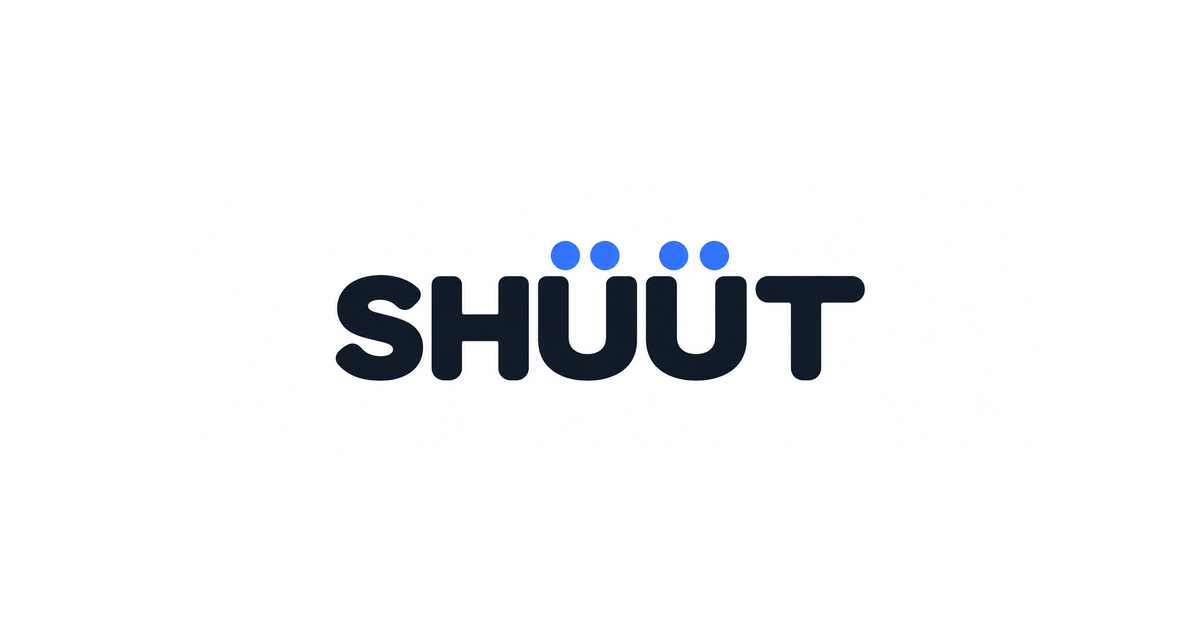
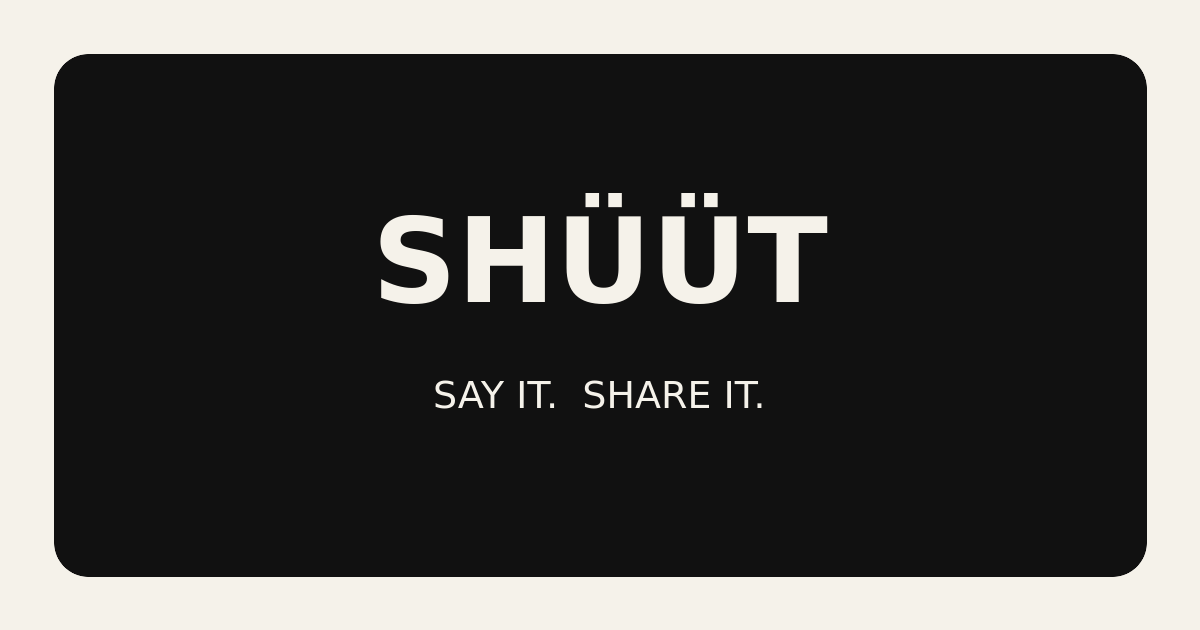
Secure rich previews with signed SHÜÜT share links
Replit-Task-Id: 74e74c97-37ad-41f2-8797-c8a439507c6a
Replit-Merge-Attempt: MergeTask:74e74c97-37ad-41f2-8797-c8a439507c6a:1:45d3e3be

diff --git a/artifacts/api-server/src/routes/socialPreview.ts b/artifacts/api-server/src/routes/socialPreview.ts
@@ -1,0 +1,137 @@
+import { readFile } from "node:fs/promises";
+import path from "node:path";
+import { Router, type IRouter } from "express";
+import { and, eq } from "drizzle-orm";
+import { db, foundersTable, postsTable } from "@workspace/db";
+import { verifyPostShareToken } from "../lib/postShareToken";
+
+const router: IRouter = Router();
+const SITE_URL = "https://shuut.me";
+const SITE_NAME = "SHÜÜT";
+const DEFAULT_TITLE = "SHÜÜT — Say it. Share it.";
+const DEFAULT_DESCRIPTION =
+  "Short voice notes, clean transcripts, and honest ideas from people building what comes next.";
+const OG_IMAGE_URL = `${SITE_URL}/shuut-social-preview.png`;
+const MAX_DESCRIPTION_LENGTH = 180;
+
+function escapeHtml(value: string): string {
+  return value
+    .replaceAll("&", "&amp;")
+    .replaceAll('"', "&quot;")
+    .replaceAll("<", "&lt;")
+    .replaceAll(">", "&gt;");
+}
+
+function transcriptExcerpt(transcript: string): string {
+  const singleLine = transcript.replace(/\s+/g, " ").trim();
+  if (singleLine.length <= MAX_DESCRIPTION_LENGTH) return singleLine;
+  const shortened = singleLine.slice(0, MAX_DESCRIPTION_LENGTH - 1);
+  const lastSpace = shortened.lastIndexOf(" ");
+  return `${shortened.slice(0, Math.max(lastSpace, 120)).trimEnd()}…`;
+}
+
+async function readSpaShell(): Promise<string> {
+  const appRoot = path.resolve(
+    process.cwd(),
+    process.cwd().endsWith("api-server") ? "../shuut-app" : "artifacts/shuut-app",
+  );
+  const filePath =
+    process.env.NODE_ENV === "production"
+      ? path.join(appRoot, "dist/public/index.html")
+      : path.join(appRoot, "index.html");
+  return readFile(filePath, "utf8");
+}
+
+function replaceHeadMetadata(
+  html: string,
+  metadata: {
+    title: string;
+    description: string;
+    canonicalUrl: string;
+    robots: string;
+  },
+): string {
+  const title = escapeHtml(metadata.title);
+  const description = escapeHtml(metadata.description);
+  const canonicalUrl = escapeHtml(metadata.canonicalUrl);
+  const imageUrl = escapeHtml(OG_IMAGE_URL);
+  const tags = [
+    `<title>${title}</title>`,
+    `<meta name="description" content="${description}" />`,
+    `<meta name="robots" content="${metadata.robots}" />`,
+    `<link rel="canonical" href="${canonicalUrl}" />`,
+    `<meta property="og:site_name" content="${SITE_NAME}" />`,
+    `<meta property="og:title" content="${title}" />`,
+    `<meta property="og:description" content="${description}" />`,
+    `<meta property="og:type" content="article" />`,
+    `<meta property="og:url" content="${canonicalUrl}" />`,
+    `<meta property="og:image" content="${imageUrl}" />`,
+    `<meta property="og:image:width" content="1200" />`,
+    `<meta property="og:image:height" content="630" />`,
+    `<meta property="og:image:alt" content="SHÜÜT — say it, share it" />`,
+    `<meta name="twitter:card" content="summary_large_image" />`,
+    `<meta name="twitter:title" content="${title}" />`,
+    `<meta name="twitter:description" content="${description}" />`,
+    `<meta name="twitter:image" content="${imageUrl}" />`,
+  ].join("\n    ");
+
+  return html.replace(
+    /<title>[\s\S]*?<\/title>[\s\S]*?(?=<link rel="icon"|<link rel="preconnect"|<\/head>)/,
+    `${tags}\n    `,
+  );
+}
+
+router.get("/p/:postId", async (req, res): Promise<void> => {
+  const postId = Number(req.params.postId);
+  const token = typeof req.query.t === "string" ? req.query.t : "";
+  const tokenQuery = token ? `?t=${encodeURIComponent(token)}` : "";
+  const canonicalUrl = `${SITE_URL}/p/${encodeURIComponent(req.params.postId)}${tokenQuery}`;
+  let metadata = {
+    title: DEFAULT_TITLE,
+    description: DEFAULT_DESCRIPTION,
+    canonicalUrl,
+    robots: "noindex, nofollow",
+  };
+
+  if (
+    Number.isSafeInteger(postId) &&
+    postId > 0 &&
+    verifyPostShareToken(postId, token)
+  ) {
+    const [result] = await db
+      .select({
+        transcript: postsTable.transcript,
+        authorName: foundersTable.name,
+      })
+      .from(postsTable)
+      .innerJoin(foundersTable, eq(foundersTable.id, postsTable.authorId))
+      .where(
+        and(
+          eq(postsTable.id, postId),
+          eq(postsTable.transcriptionStatus, "ready"),
+        ),
+      )
+      .limit(1);
+
+    if (result?.transcript.trim()) {
+      metadata = {
+        title: `${result.authorName} on SHÜÜT`,
+        description: transcriptExcerpt(result.transcript),
+        canonicalUrl,
+        robots: "noindex, nofollow",
+      };
+    }
+  }
+
+  try {
+    const html = replaceHeadMetadata(await readSpaShell(), metadata);
+    res.setHeader("Content-Type", "text/html; charset=utf-8");
+    res.setHeader("Cache-Control", "no-store");
+    res.status(200).send(html);
+  } catch (error) {
+    req.log.error({ err: error }, "Could not render social preview");
+    res.status(500).send("SHÜÜT is temporarily unavailable");
+  }
+});
+
+export default router;

diff --git a/artifacts/api-server/test/auth.test.ts b/artifacts/api-server/test/auth.test.ts
@@ -446,3 +446,55 @@ test("publishing requires owned audio and responses never expose private object 
     headers: { cookie: session.cookie },
   })).status, 401);
 });
+
+test("rich preview metadata requires an authenticated share action and signed token", async () => {
+  const email = `${prefix}-share-preview@example.test`;
+  const session = await register(email);
+  const [user] = await db.select().from(usersTable).where(eq(usersTable.email, email));
+  await db.update(sessionsTable).set({ passkeyVerifiedAt: new Date() })
+    .where(eq(sessionsTable.userId, user.id));
+  const [founder] = await db.insert(foundersTable).values({
+    userId: user.id,
+    name: 'Preview <Author>',
+    handle: `${prefix.replace(/[^a-z0-9]/g, "").slice(-18)}preview`,
+    bio: "",
+    avatarColor: "#000000",
+  }).returning();
+  const [post] = await db.insert(postsTable).values({
+    authorId: founder.id,
+    transcript: 'A private-by-default thought with "quotes" & markup <here>.',
+    durationSeconds: 8,
+  }).returning();
+
+  const unsigned = await request(`/p/${post.id}`);
+  assert.equal(unsigned.status, 200);
+  const unsignedHtml = await unsigned.text();
+  assert.ok(!unsignedHtml.includes("private-by-default"));
+  assert.ok(!unsignedHtml.includes("Preview &lt;Author&gt;"));
+  assert.ok(unsignedHtml.includes('content="noindex, nofollow"'));
+
+  const anonymousShareAttempt = await request(`/api/posts/${post.id}/share-link`, {
+    method: "POST",
+  });
+  assert.equal(anonymousShareAttempt.status, 401);
+
+  const shareResponse = await request(`/api/posts/${post.id}/share-link`, {
+    method: "POST",
+    session,
+  });
+  assert.equal(shareResponse.status, 200);
+  const { url } = await shareResponse.json() as { url: string };
+  const shareUrl = new URL(url);
+  const signed = await request(`${shareUrl.pathname}${shareUrl.search}`);
+  assert.equal(signed.status, 200);
+  const signedHtml = await signed.text();
+  assert.ok(signedHtml.includes("Preview &lt;Author&gt; on SHÜÜT"));
+  assert.ok(signedHtml.includes("&quot;quotes&quot; &amp; markup &lt;here&gt;"));
+  assert.ok(signedHtml.includes('content="noindex, nofollow"'));
+  assert.equal(signed.headers.get("cache-control"), "no-store");
+
+  const tampered = await request(`${shareUrl.pathname}?t=${shareUrl.searchParams.get("t")}x`);
+  const tamperedHtml = await tampered.text();
+  assert.ok(!tamperedHtml.includes("private-by-default"));
+  assert.ok(!tamperedHtml.includes("Preview &lt;Author&gt;"));
+});

diff --git a/artifacts/api-server/src/routes/shuut.ts b/artifacts/api-server/src/routes/shuut.ts
@@ -31,6 +31,8 @@ import {
   UpdatePostBody,
   UpdatePostParams,
   UpdatePostResponse,
+  CreatePostShareLinkParams,
+  CreatePostShareLinkResponse,
 } from "@workspace/api-zod";
 import {
   db,
@@ -47,6 +49,7 @@ import {
   getAuthenticatedUserId,
 } from "../middlewares/sessionAuth";
 import { auditSecurityEvent } from "../lib/security";
+import { createPostShareToken } from "../lib/postShareToken";
 
 const router: IRouter = Router();
 const objectStorage = new ObjectStorageService();
@@ -682,6 +685,29 @@ router.get("/posts/:postId", async (req, res): Promise<void> => {
   const [author] = await db.select().from(foundersTable).where(eq(foundersTable.id, post.authorId));
   const viewer = await currentFounder(getAuthenticatedUserId(req) ?? "");
   res.json(GetPostResponse.parse(postJson(post, author, viewer?.id)));
+});
+
+router.post("/posts/:postId/share-link", async (req, res): Promise<void> => {
+  const params = CreatePostShareLinkParams.safeParse(req.params);
+  if (!params.success) {
+    res.status(400).json({ error: params.error.message });
+    return;
+  }
+  const [post] = await db
+    .select({ id: postsTable.id, transcriptionStatus: postsTable.transcriptionStatus })
+    .from(postsTable)
+    .where(eq(postsTable.id, params.data.postId))
+    .limit(1);
+  if (!post || post.transcriptionStatus !== "ready") {
+    res.status(404).json({ error: "Post not found" });
+    return;
+  }
+  const token = createPostShareToken(post.id);
+  res.json(
+    CreatePostShareLinkResponse.parse({
+      url: `https://shuut.me/p/${post.id}?t=${encodeURIComponent(token)}`,
+    }),
+  );
 });
 
 router.patch("/posts/:postId", async (req, res): Promise<void> => {

diff --git a/artifacts/api-server/src/lib/postShareToken.ts b/artifacts/api-server/src/lib/postShareToken.ts
@@ -1,0 +1,39 @@
+import { createHmac, timingSafeEqual } from "node:crypto";
+
+const SHARE_TOKEN_TTL_MS = 30 * 24 * 60 * 60 * 1000;
+
+function secret(): string {
+  const value = process.env.SESSION_SECRET;
+  if (!value) throw new Error("SESSION_SECRET is not configured");
+  return value;
+}
+
+function signature(postId: number, expiresAt: number): string {
+  return createHmac("sha256", secret())
+    .update(`${postId}.${expiresAt}`)
+    .digest("base64url");
+}
+
+export function createPostShareToken(
+  postId: number,
+  now = Date.now(),
+): string {
+  const expiresAt = now + SHARE_TOKEN_TTL_MS;
+  return `${expiresAt}.${signature(postId, expiresAt)}`;
+}
+
+export function verifyPostShareToken(
+  postId: number,
+  token: unknown,
+  now = Date.now(),
+): boolean {
+  if (typeof token !== "string") return false;
+  const [rawExpiry, suppliedSignature, extra] = token.split(".");
+  if (!rawExpiry || !suppliedSignature || extra) return false;
+  const expiresAt = Number(rawExpiry);
+  if (!Number.isSafeInteger(expiresAt) || expiresAt <= now) return false;
+
+  const expected = Buffer.from(signature(postId, expiresAt));
+  const supplied = Buffer.from(suppliedSignature);
+  return supplied.length === expected.length && timingSafeEqual(supplied, expected);
+}

diff --git a/artifacts/shuut-app/src/components/post-card.tsx b/artifacts/shuut-app/src/components/post-card.tsx
@@ -8,6 +8,7 @@ import {
   useReshuutPost, 
   useDeletePost,
   useUpdatePost,
+  useCreatePostShareLink,
   getGetFeedQueryKey 
 } from "@workspace/api-client-react"
 import { useQueryClient } from "@tanstack/react-query"
@@ -36,6 +37,7 @@ export function PostCard({ post, isDetail = false }: PostCardProps) {
   const reshuutPost = useReshuutPost()
   const deletePost = useDeletePost()
   const updatePost = useUpdatePost()
+  const createShareLink = useCreatePostShareLink()
   const { toast } = useToast()
   
   const [showMenu, setShowMenu] = useState(false)
@@ -112,11 +114,11 @@ export function PostCard({ post, isDetail = false }: PostCardProps) {
     )
   }
 
-  const shareUrl = `${window.location.origin}/p/${post.id}`
   const shareText = `Listen to ${post.author.name} on SHÜÜT`
 
   const handleShare = async () => {
     try {
+      const { url: shareUrl } = await createShareLink.mutateAsync({ postId: post.id })
       if (navigator.share) {
         await navigator.share({
           title: `${post.author.name} on SHÜÜT`,

diff --git a/artifacts/shuut-app/index.html b/artifacts/shuut-app/index.html
@@ -6,9 +6,12 @@
     <title>SHÜÜT</title>
     <meta name="description" content="Share voice notes. Hear what people are thinking, in their own words." />
     <meta name="robots" content="index, follow" />
+    <link rel="canonical" href="https://shuut.me/" />
+    <meta property="og:site_name" content="SHÜÜT" />
     <meta property="og:title" content="SHÜÜT" />
     <meta property="og:description" content="Share voice notes. Hear what people are thinking, in their own words." />
     <meta property="og:type" content="website" />
+    <meta property="og:url" content="https://shuut.me/" />
     <meta property="og:image" content="https://shuut.me/shuut-social-preview.png" />
     <meta property="og:image:width" content="1200" />
     <meta property="og:image:height" content="630" />

diff --git a/artifacts/api-server/src/app.ts b/artifacts/api-server/src/app.ts
@@ -4,6 +4,7 @@ import router from "./routes";
 import contactRouter from "./routes/contact";
 import authRouter from "./routes/auth";
 import healthRouter from "./routes/health";
+import socialPreviewRouter from "./routes/socialPreview";
 import { logger } from "./lib/logger";
 import { requireAuth, sessionAuth } from "./middlewares/sessionAuth";
 import { csrfProtection } from "./middlewares/csrf";
@@ -69,6 +70,7 @@ app.use(async (req, res, next) => {
 app.use("/api/contact", contactRouter);
 app.use("/api/auth", authRouter);
 app.use("/api", healthRouter);
+app.use(socialPreviewRouter);
 app.use("/api", requireAuth, router);
 
 export default app;
